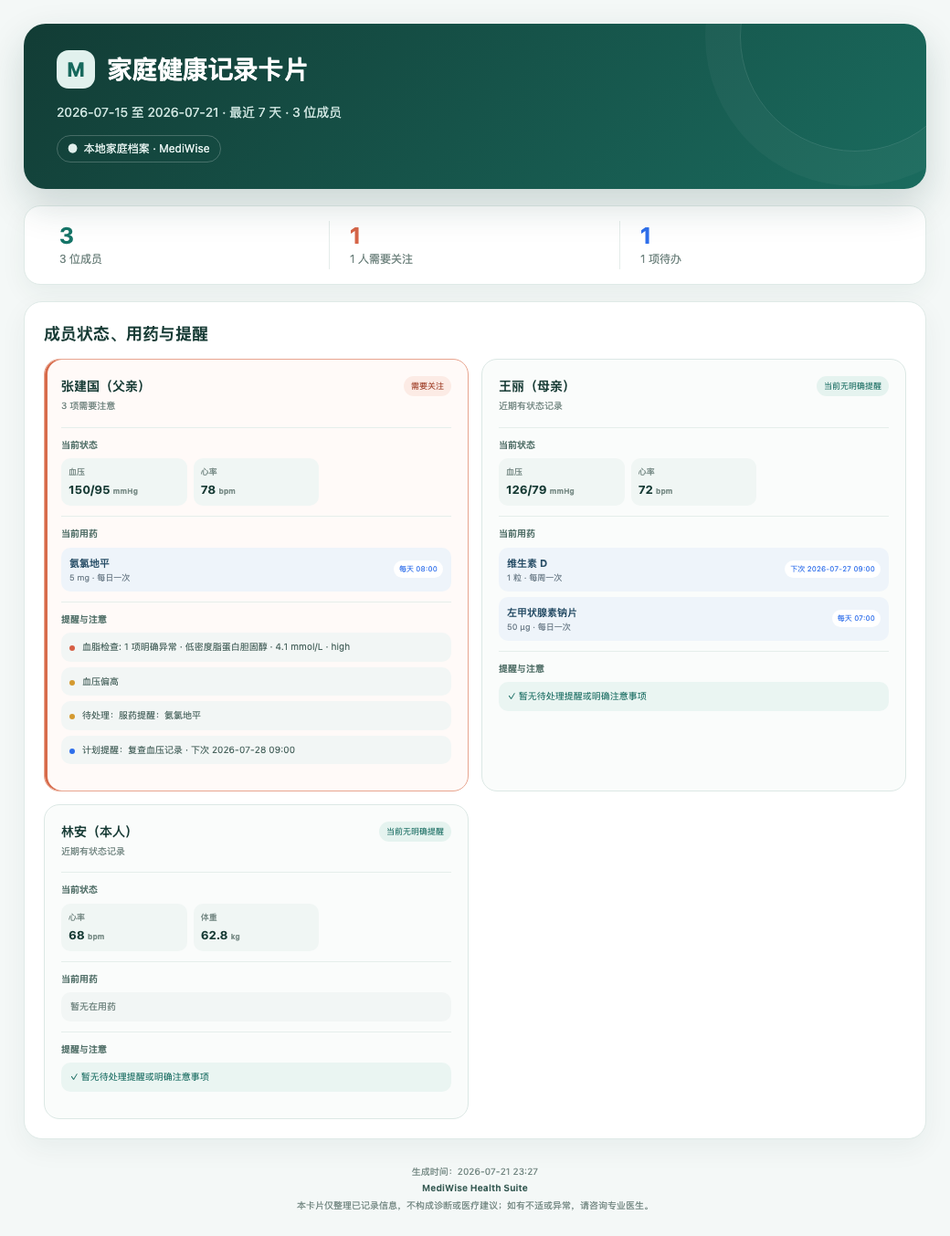
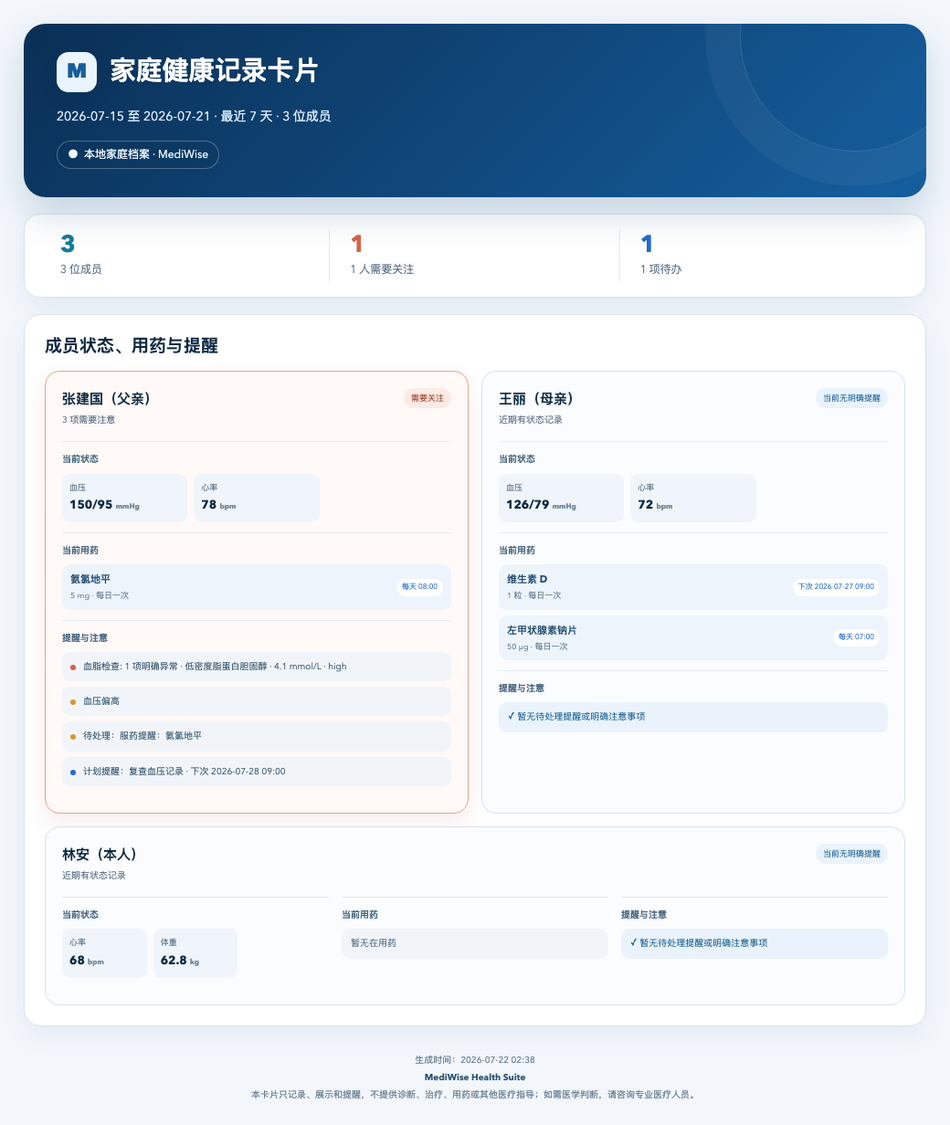
feat: refresh health cards with blue theme

diff --git a/mediwise-health-tracker/scripts/briefing_report.py b/mediwise-health-tracker/scripts/briefing_report.py
@@ -470,11 +470,11 @@ def _sparkline(metric_type: str, points: list[dict], locale: str) -> str:
         dots = "".join(f'<circle cx="{x:.1f}" cy="{y:.1f}" r="2.3" fill="{color}"/>' for x, y in coords)
         return f'<polyline points="{line}" fill="none" stroke="{color}" stroke-width="3" stroke-linecap="round" stroke-linejoin="round"/>{dots}'
     if metric_type == "blood_pressure":
-        content = path([p.get("systolic") for p in points], "#D76A4A") + path([p.get("diastolic") for p in points], "#2F6FEB")
+        content = path([p.get("systolic") for p in points], "#D66548") + path([p.get("diastolic") for p in points], "#246BCE")
     else:
-        content = path([_metric_number(p, metric_type) for p in points], "#1E7A6E")
+        content = path([_metric_number(p, metric_type) for p in points], "#246BCE")
     label = _escape(METRIC_NAMES[locale].get(metric_type, metric_type))
-    return f'<svg class="spark" viewBox="0 0 {width} {height}" role="img" aria-label="{label}"><line x1="{pad}" y1="{height-pad}" x2="{width-pad}" y2="{height-pad}" stroke="#DDE8E5"/>{content}</svg>'
+    return f'<svg class="spark" viewBox="0 0 {width} {height}" role="img" aria-label="{label}"><line x1="{pad}" y1="{height-pad}" x2="{width-pad}" y2="{height-pad}" stroke="#DCE6F0"/>{content}</svg>'
 
 
 def _tip_focus(tip: dict) -> str | None:
@@ -999,18 +999,19 @@ def _render_html(title: str, subtitle: str, privacy: str, summary: str, content:
     generated = c["generated"].format(time=datetime.now().strftime("%Y-%m-%d %H:%M"))
     return f'''<!DOCTYPE html><html lang="{c["lang"]}"><head><meta charset="UTF-8"><meta name="viewport" content="width=device-width,initial-scale=1"><title>{_escape(title)}</title>
 <style>
-*{{box-sizing:border-box}} body{{margin:0;background:#F4F8F7;color:#173B35;font:14px/1.55 -apple-system,BlinkMacSystemFont,"Segoe UI","PingFang SC","Microsoft YaHei",Arial,sans-serif;line-break:strict;overflow-wrap:break-word;font-synthesis:none}} .container{{max-width:1040px;margin:auto;padding:26px}}
-.header{{position:relative;overflow:hidden;border-radius:24px;padding:29px 36px;background:linear-gradient(135deg,#123C35,#1A6B5E);color:#fff;box-shadow:0 18px 42px rgba(18,60,53,.18)}} .header:after{{content:"";position:absolute;width:250px;height:250px;border:1px solid rgba(255,255,255,.12);border-radius:50%;right:-48px;top:-112px;box-shadow:0 0 0 38px rgba(255,255,255,.035)}}
-.brand{{display:flex;align-items:center;gap:13px}} .mark{{display:grid;place-items:center;width:42px;height:42px;border-radius:13px;background:#E1F1ED;color:#17695D;font-weight:800;font-size:22px}} h1{{font-size:28px;line-height:1.2;margin:0;letter-spacing:-.4px}} .subtitle{{margin-top:15px;color:#CCE3DE}} .privacy{{display:inline-block;margin-top:14px;padding:5px 11px;border:1px solid rgba(255,255,255,.22);border-radius:99px;color:#E1EFEC;font-size:12px}}
-.summary-strip{{display:grid;grid-template-columns:repeat(3,1fr);background:white;border:1px solid #DFEAE7;border-radius:18px;margin:18px 0;padding:16px;box-shadow:0 9px 28px rgba(18,60,53,.06)}} .summary-strip>div{{padding:2px 22px;border-right:1px solid #E4ECEA}} .summary-strip>div:last-child{{border:0}} .summary-strip b{{font-size:25px;display:block;line-height:1.1}} .summary-strip span{{font-size:12px;color:#718580}} .green{{color:#167568}} .blue{{color:#2F6FEB}} .coral{{color:#D66548}} .gold{{color:#B7791F}}
-section{{background:#fff;border:1px solid #DFEAE7;border-radius:20px;padding:21px;margin:14px 0;box-shadow:0 10px 30px rgba(18,60,53,.055)}} .section-featured{{border-color:#A9D0C7;box-shadow:0 12px 34px rgba(18,92,79,.09)}} .section-title{{display:flex;align-items:center;gap:10px;margin-bottom:13px}} .section-title>span{{font-size:10px;font-weight:800;color:#72A69C;border:1px solid #CDE1DC;border-radius:99px;padding:2px 7px}} h2{{font-size:18px;margin:0;text-wrap:balance}} h3{{margin:0;font-size:14px}} p{{text-wrap:pretty}} .muted{{color:#718580;font-size:11px}} .empty{{padding:20px;text-align:center;border:1px dashed #BFD2CD;border-radius:13px;background:#F8FBFA;color:#718580}} .empty.compact{{padding:14px 9px;margin-top:8px}}
-.metric-grid{{display:grid;grid-template-columns:repeat(4,1fr);gap:10px}} .metric-grid.focused{{grid-template-columns:repeat(5,1fr)}} .metric-card{{padding:13px;border-radius:14px;background:#F7FAF9;border:1px solid #DCE8E5;min-width:0}} .metric-card.featured{{grid-column:span 2;background:#F2F8F6;border-color:#BBD9D2}} .metric-card.featured .spark{{height:50px}} .metric-head,.meta{{display:flex;justify-content:space-between;gap:6px}} .metric-head b{{font-size:12px}} .metric-head span{{font-size:9px;background:#E8F0FA;color:#2F6FEB;border-radius:99px;padding:2px 6px;white-space:nowrap}} .metric-value{{font-size:24px;font-weight:760;margin-top:6px;font-variant-numeric:tabular-nums}} .metric-value small,.big small{{font-size:10px;color:#718580}} .spark{{display:block;width:100%;height:42px;margin:5px 0}} .meta{{font-size:8px;color:#82938F}} .metric-title{{margin-top:16px}}
-.wellness-grid{{display:grid;grid-template-columns:1.05fr 1fr 1fr;gap:10px}} .wellness-grid.focused{{grid-template-columns:repeat(4,minmax(0,1fr))}} .featured-panel{{grid-column:span 2}} .panel{{min-height:158px;border-radius:15px;padding:14px;border:1px solid #DCE8E5;background:#F9FBFB}} .intake{{background:#F5F8FC;border-color:#DCE6F3}} .activity{{background:#F3F9F7;border-color:#D6E9E4}} .sleep{{background:#FCF7F4;border-color:#F1E0D9}} .eyebrow{{font-size:11px;font-weight:750;color:#506D67}} .big{{font-size:24px;font-weight:780;margin-top:6px;font-variant-numeric:tabular-nums}} .macro,.sleep-row{{display:grid;grid-template-columns:repeat(2,1fr);gap:5px;margin-top:9px}} .macro span,.sleep-row span{{font-size:9px;color:#7A8D88}} .macro b,.sleep-row b{{display:block;font-size:11px;color:#284A44}} .step-box{{margin-top:9px;padding-top:8px;border-top:1px solid #D7E8E4;display:grid;grid-template-columns:1fr auto}} .step-box b{{font-size:16px;color:#176F63}} .step-box small{{grid-column:1/3;color:#82938F}} .top-gap{{margin-top:10px}} .scope-note{{margin:9px 2px 0;font-size:9px;color:#82938F}}
-.table-wrap{{overflow:hidden;border:1px solid #DFE8E6;border-radius:14px}} table{{width:100%;border-collapse:collapse;font-variant-numeric:tabular-nums}} th{{background:#EDF4F2;color:#31564F;font-size:11px;text-align:left}} th,td{{padding:9px 12px;border-bottom:1px solid #EDF2F1}} tr:last-child td{{border:0}} td{{font-size:11px}}
-.clear{{display:flex;align-items:center;gap:9px;padding:11px 14px;border-radius:13px;background:#E7F5F1;color:#16665B}} .clear i{{display:grid;place-items:center;width:23px;height:23px;border-radius:50%;background:#1B786B;color:white;font-style:normal}} .hero-clear{{margin:14px 0;background:white;border:1px solid #D7E8E3;box-shadow:0 9px 28px rgba(18,60,53,.05)}} .attention-section{{padding:14px 18px}} .attention-section.has-risk{{border-color:#E9B9AA;background:#FFFCFB}} .attention-section .compact-attention{{padding:0;border:0}} .attention-list{{display:grid;grid-template-columns:repeat(2,minmax(0,1fr));gap:7px;flex:1}} .attention-item{{display:flex;gap:9px;padding:8px 11px;border-radius:10px;background:#F4F8F7}} .attention-item span{{width:6px;height:6px;border-radius:50%;background:#2F6FEB;margin-top:7px;flex:none}} .attention-item.alert span{{background:#D65F45}} .attention-item.warning span{{background:#D49A30}} .attention-item p{{margin:0;font-size:12px}} .compact-attention{{display:flex;align-items:center;gap:14px;padding-bottom:13px;border-bottom:1px solid #E5EEEB}} .compact-attention>b{{font-size:12px;white-space:nowrap;color:#45645E}} .compact-attention>.clear{{flex:1;padding:8px 11px}} .compact-attention>.clear i{{width:20px;height:20px}}
-.family-grid{{display:grid;grid-template-columns:repeat(2,1fr);gap:14px}} .family-card{{padding:18px;border:1px solid #DCE8E5;border-radius:17px;background:#FAFCFB}} .family-card.featured-member{{border-color:#E8A58F;background:#FFFAF8;box-shadow:inset 3px 0 #D76A4A}} .family-card-head{{display:flex;justify-content:space-between;gap:10px;margin-bottom:12px}} .family-card-head p{{margin:3px 0;color:#718580;font-size:10px}} .status{{height:max-content;padding:4px 8px;border-radius:99px;background:#E5F3EF;color:#176B60;font-size:9px;white-space:nowrap}} .status.watch{{background:#FCEBE5;color:#A64C36}} .family-block{{padding:11px 0;border-top:1px solid #E5EEEB}} .family-block-title{{font-size:10px;font-weight:760;color:#527069;margin-bottom:7px}} .family-metrics{{display:grid;grid-template-columns:repeat(3,1fr);gap:7px}} .family-metrics span{{padding:8px;background:#F0F6F4;border-radius:10px;min-width:0}} .family-metrics small,.family-metrics b{{display:block}} .family-metrics small{{font-size:9px;color:#718580}} .family-metrics b{{font-size:13px;margin-top:2px;white-space:nowrap}} .family-metrics i{{font-size:8px;font-style:normal;color:#7B8E89}} .family-state-note,.family-empty{{padding:8px 10px;border-radius:10px;background:#F2F6F5;color:#718580;font-size:10px}} .family-empty.clear-state{{background:#EAF5F2;color:#176B60}} .family-list{{display:grid;gap:6px}} .family-list-item{{display:flex;align-items:center;gap:8px;padding:8px 9px;border-radius:10px;background:#F2F6F5;min-width:0}} .family-list-item.medication{{justify-content:space-between;background:#EEF4FA}} .family-list-item.medication div{{min-width:0}} .family-list-item.medication b,.family-list-item.medication small{{display:block}} .family-list-item.medication b{{font-size:11px;color:#274D66}} .family-list-item.medication small{{font-size:9px;color:#71818D;margin-top:1px}} .family-list-item.medication em{{font-size:8px;font-style:normal;color:#2F6FEB;background:#fff;padding:3px 6px;border-radius:99px;white-space:nowrap}} .family-list-item.attention{{align-items:flex-start}} .family-list-item.attention i{{width:6px;height:6px;border-radius:50%;background:#2F6FEB;margin-top:6px;flex:none}} .family-list-item.attention.warning i{{background:#D49A30}} .family-list-item.attention.alert i{{background:#D65F45}} .family-list-item.attention p{{margin:0;font-size:10px;color:#49645E}} .family-more{{font-size:9px;color:#718580;padding-left:3px}}
-.timeline{{padding-left:6px}} .timeline-item{{display:grid;grid-template-columns:78px 12px 1fr;gap:9px;min-height:55px}} .timeline-item time{{font-size:10px;color:#718580;padding-top:2px;font-variant-numeric:tabular-nums}} .timeline-item>span{{position:relative}} .timeline-item>span:before{{content:"";position:absolute;width:7px;height:7px;border-radius:50%;background:#D76A4A;top:5px;left:2px}} .timeline-item>span:after{{content:"";position:absolute;width:1px;background:#DDE8E5;top:15px;bottom:0;left:5px}} .timeline-item:last-child>span:after{{display:none}} .timeline-item b{{font-size:12px}} .timeline-item small{{margin-left:7px;padding:2px 6px;border-radius:99px;background:#F4E9E5;color:#9B5A47;font-size:8px}} .timeline-item p{{font-size:11px;color:#59726C;margin:1px 0}} .personal-timeline{{display:grid;grid-template-columns:repeat(2,minmax(0,1fr));column-gap:25px}} .personal-timeline .timeline-item{{grid-template-columns:72px 12px 1fr;min-height:52px}} .personal-timeline .metric-event>span:before{{background:#2F6FEB}} .personal-timeline .metric-event small{{background:#E8F0FA;color:#2F6FEB}} .personal-timeline .food-event>span:before{{background:#557FBA}} .personal-timeline .food-event small{{background:#EDF3FA;color:#446A9E}} .personal-timeline .activity-event>span:before{{background:#1E7A6E}} .personal-timeline .activity-event small{{background:#E4F2EE;color:#176B60}} .personal-timeline .sleep-event>span:before{{background:#C8775E}} .personal-timeline .sleep-event small{{background:#F7EAE5;color:#A45C47}}
-.footer{{text-align:center;color:#758984;font-size:10px;padding:14px 10px 6px}} .footer b{{display:block;color:#385C55;margin:3px}} @media(max-width:700px){{.container{{padding:12px}}.header{{padding:25px}}.metric-grid,.metric-grid.focused{{grid-template-columns:repeat(2,1fr)}}.wellness-grid,.wellness-grid.focused,.family-grid,.personal-timeline{{grid-template-columns:1fr}}.featured-panel{{grid-column:auto}}.attention-list{{grid-template-columns:1fr}}.compact-attention{{align-items:flex-start;flex-direction:column}}.summary-strip>div{{padding:2px 8px}}.family-metrics{{grid-template-columns:repeat(2,1fr)}}}} @media print{{body{{background:white}}.container{{max-width:none}}section,.header{{box-shadow:none;break-inside:avoid}}}}
+:root{{--page:#F3F7FC;--surface:#FFFFFF;--surface-muted:#F7FAFD;--ink:#15324B;--ink-strong:#0D2942;--muted:#526B82;--line:#D8E4F0;--line-strong:#BBD2E8;--primary:#246BCE;--primary-strong:#164F91;--primary-soft:#EAF3FD;--cyan:#167A9A;--cyan-soft:#EAF6FA;--coral:#D66548;--coral-soft:#FCF0EC;--gold:#B7791F}}
+*{{box-sizing:border-box}} body{{margin:0;background:var(--page);color:var(--ink);font:14.5px/1.62 "Avenir Next","Segoe UI Variable","Segoe UI","PingFang SC","Microsoft YaHei",sans-serif;line-break:strict;overflow-wrap:break-word;font-synthesis:none}} .container{{max-width:1040px;margin:auto;padding:26px}}
+.header{{position:relative;overflow:hidden;border-radius:24px;padding:31px 36px;background:linear-gradient(135deg,#0A2F55,#155E9E);color:#fff;box-shadow:0 18px 42px rgba(16,68,116,.20)}} .header:after{{content:"";position:absolute;width:250px;height:250px;border:1px solid rgba(255,255,255,.15);border-radius:50%;right:-48px;top:-112px;box-shadow:0 0 0 38px rgba(255,255,255,.045)}}
+.brand{{display:flex;align-items:center;gap:14px}} .mark{{display:grid;place-items:center;width:44px;height:44px;border-radius:13px;background:#EAF4FF;color:#175D9B;font-weight:800;font-size:22px;box-shadow:0 8px 18px rgba(4,37,68,.16)}} h1{{font-size:29px;line-height:1.22;margin:0;letter-spacing:-.25px;text-wrap:balance}} .subtitle{{margin-top:16px;color:#D9EAFE;font-size:14px}} .privacy{{display:inline-block;margin-top:14px;padding:5px 11px;border:1px solid rgba(255,255,255,.28);border-radius:99px;color:#EFF7FF;font-size:12px;background:rgba(4,35,63,.10)}}
+.summary-strip{{display:grid;grid-template-columns:repeat(3,1fr);background:var(--surface);border:1px solid var(--line);border-radius:18px;margin:18px 0;padding:17px;box-shadow:0 9px 28px rgba(21,63,104,.07)}} .summary-strip>div{{padding:2px 22px;border-right:1px solid #E2EAF2}} .summary-strip>div:last-child{{border:0}} .summary-strip b{{font-size:26px;display:block;line-height:1.1;font-variant-numeric:tabular-nums}} .summary-strip span{{font-size:12px;color:var(--muted)}} .green{{color:var(--cyan)}} .blue{{color:var(--primary)}} .coral{{color:var(--coral)}} .gold{{color:var(--gold)}}
+section{{background:var(--surface);border:1px solid var(--line);border-radius:19px;padding:22px;margin:14px 0;box-shadow:0 10px 30px rgba(21,63,104,.065)}} .section-featured{{border-color:#A8C9E8;box-shadow:0 12px 34px rgba(31,91,147,.11)}} .section-title{{display:flex;align-items:center;gap:10px;margin-bottom:14px}} .section-title>span{{font-size:10px;font-weight:800;color:#2F6EA5;border:1px solid #C5D9EC;background:#F2F7FC;border-radius:99px;padding:2px 7px}} h2{{font-size:19px;line-height:1.3;margin:0;color:var(--ink-strong);text-wrap:balance}} h3{{margin:0;font-size:15px;color:var(--ink-strong)}} p{{text-wrap:pretty}} .muted{{color:var(--muted);font-size:11px}} .empty{{padding:20px;text-align:center;border:1px dashed #B9CDE0;border-radius:12px;background:#F8FAFD;color:var(--muted)}} .empty.compact{{padding:14px 9px;margin-top:8px}}
+.metric-grid{{display:grid;grid-template-columns:repeat(4,1fr);gap:10px}} .metric-grid.focused{{grid-template-columns:repeat(5,1fr)}} .metric-card{{padding:14px;border-radius:13px;background:var(--surface-muted);border:1px solid #D9E4EF;min-width:0}} .metric-card.featured{{grid-column:span 2;background:#F1F7FD;border-color:#B8D0E7}} .metric-card.featured .spark{{height:50px}} .metric-head,.meta{{display:flex;justify-content:space-between;gap:6px}} .metric-head b{{font-size:12px;color:var(--ink-strong)}} .metric-head span{{font-size:9px;background:var(--primary-soft);color:var(--primary);border-radius:99px;padding:2px 6px;white-space:nowrap}} .metric-value{{font-size:25px;font-weight:760;margin-top:7px;color:var(--ink-strong);font-variant-numeric:tabular-nums}} .metric-value small,.big small{{font-size:10px;color:var(--muted)}} .spark{{display:block;width:100%;height:42px;margin:6px 0}} .meta{{font-size:9px;color:#587087}} .metric-title{{margin-top:16px}}
+.wellness-grid{{display:grid;grid-template-columns:1.05fr 1fr 1fr;gap:10px}} .wellness-grid.focused{{grid-template-columns:repeat(4,minmax(0,1fr))}} .featured-panel{{grid-column:span 2}} .panel{{min-height:160px;border-radius:14px;padding:15px;border:1px solid #D9E4EF;background:#F8FAFD}} .intake{{background:#F2F7FE;border-color:#D4E2F2}} .activity{{background:#F1F8FC;border-color:#D2E7F0}} .sleep{{background:#FCF6F3;border-color:#EFDCD3}} .eyebrow{{font-size:11px;font-weight:760;color:#496780}} .big{{font-size:25px;font-weight:780;margin-top:7px;font-variant-numeric:tabular-nums}} .macro,.sleep-row{{display:grid;grid-template-columns:repeat(2,1fr);gap:5px;margin-top:9px}} .macro span,.sleep-row span{{font-size:9px;color:#526B82}} .macro b,.sleep-row b{{display:block;font-size:11px;color:#24445F}} .step-box{{margin-top:9px;padding-top:8px;border-top:1px solid #D2E3EE;display:grid;grid-template-columns:1fr auto}} .step-box b{{font-size:16px;color:var(--cyan)}} .step-box small{{grid-column:1/3;color:#587087}} .top-gap{{margin-top:10px}} .scope-note{{margin:10px 2px 0;font-size:9px;color:#587087}}
+.table-wrap{{overflow:hidden;border:1px solid var(--line);border-radius:13px}} table{{width:100%;border-collapse:collapse;font-variant-numeric:tabular-nums}} th{{background:#EDF4FA;color:#274E70;font-size:11px;text-align:left}} th,td{{padding:10px 12px;border-bottom:1px solid #E8EEF4}} tr:last-child td{{border:0}} td{{font-size:11px}}
+.clear{{display:flex;align-items:center;gap:9px;padding:11px 14px;border-radius:12px;background:#EAF3FB;color:#195F93}} .clear i{{display:grid;place-items:center;width:23px;height:23px;border-radius:50%;background:#2C78B8;color:white;font-style:normal}} .hero-clear{{margin:14px 0;background:white;border:1px solid #D3E1EE;box-shadow:0 9px 28px rgba(21,63,104,.06)}} .attention-section{{padding:15px 18px}} .attention-section.has-risk{{border-color:#E9B9AA;background:#FFFCFB}} .attention-section .compact-attention{{padding:0;border:0}} .attention-list{{display:grid;grid-template-columns:repeat(2,minmax(0,1fr));gap:7px;flex:1}} .attention-item{{display:flex;gap:9px;padding:8px 11px;border-radius:10px;background:#F4F7FA}} .attention-item span{{width:6px;height:6px;border-radius:50%;background:var(--primary);margin-top:7px;flex:none}} .attention-item.alert span{{background:#D65F45}} .attention-item.warning span{{background:#D49A30}} .attention-item p{{margin:0;font-size:12px}} .compact-attention{{display:flex;align-items:center;gap:14px;padding-bottom:13px;border-bottom:1px solid #E4EBF2}} .compact-attention>b{{font-size:12px;white-space:nowrap;color:#385A76}} .compact-attention>.clear{{flex:1;padding:8px 11px}} .compact-attention>.clear i{{width:20px;height:20px}}
+.family-grid{{display:grid;grid-template-columns:repeat(2,1fr);gap:14px}} .family-card{{padding:18px;border:1px solid #D6E2ED;border-radius:16px;background:#FBFCFE}} .family-card.featured-member{{border-color:#E7A48E;background:#FFF9F7;box-shadow:0 10px 24px rgba(174,78,49,.10)}} .family-card-head{{display:flex;justify-content:space-between;gap:10px;margin-bottom:12px}} .family-card-head p{{margin:3px 0;color:var(--muted);font-size:10px}} .family-grid>.family-card:nth-child(odd):last-child{{grid-column:1/-1;display:grid;grid-template-columns:repeat(3,minmax(0,1fr));column-gap:14px}} .family-grid>.family-card:nth-child(odd):last-child .family-card-head{{grid-column:1/-1}} .status{{height:max-content;padding:4px 8px;border-radius:99px;background:#EAF3FB;color:#195F93;font-size:9px;white-space:nowrap}} .status.watch{{background:#FCEBE5;color:#A64C36}} .family-block{{padding:11px 0;border-top:1px solid #E3EBF2}} .family-block-title{{font-size:10px;font-weight:760;color:#46657E;margin-bottom:7px}} .family-metrics{{display:grid;grid-template-columns:repeat(3,1fr);gap:7px}} .family-metrics span{{padding:8px;background:#EFF5FA;border-radius:9px;min-width:0}} .family-metrics small,.family-metrics b{{display:block}} .family-metrics small{{font-size:9px;color:var(--muted)}} .family-metrics b{{font-size:13px;margin-top:2px;white-space:nowrap;color:var(--ink-strong)}} .family-metrics i{{font-size:8px;font-style:normal;color:#587087}} .family-state-note,.family-empty{{padding:8px 10px;border-radius:9px;background:#F1F5F9;color:var(--muted);font-size:10px}} .family-empty.clear-state{{background:#EAF3FB;color:#195F93}} .family-list{{display:grid;gap:6px}} .family-list-item{{display:flex;align-items:center;gap:8px;padding:8px 9px;border-radius:9px;background:#F1F5F9;min-width:0}} .family-list-item.medication{{justify-content:space-between;background:#EDF4FC}} .family-list-item.medication div{{min-width:0}} .family-list-item.medication b,.family-list-item.medication small{{display:block}} .family-list-item.medication b{{font-size:11px;color:#234D70}} .family-list-item.medication small{{font-size:9px;color:#526B82;margin-top:1px}} .family-list-item.medication em{{font-size:8px;font-style:normal;color:var(--primary);background:#fff;padding:3px 6px;border-radius:99px;white-space:nowrap}} .family-list-item.attention{{align-items:flex-start}} .family-list-item.attention i{{width:6px;height:6px;border-radius:50%;background:var(--primary);margin-top:6px;flex:none}} .family-list-item.attention.warning i{{background:#D49A30}} .family-list-item.attention.alert i{{background:#D65F45}} .family-list-item.attention p{{margin:0;font-size:10px;color:#405E77}} .family-more{{font-size:9px;color:var(--muted);padding-left:3px}}
+.timeline{{padding-left:6px}} .timeline-item{{display:grid;grid-template-columns:78px 12px 1fr;gap:9px;min-height:55px}} .timeline-item time{{font-size:10px;color:var(--muted);padding-top:2px;font-variant-numeric:tabular-nums}} .timeline-item>span{{position:relative}} .timeline-item>span:before{{content:"";position:absolute;width:7px;height:7px;border-radius:50%;background:var(--coral);top:5px;left:2px}} .timeline-item>span:after{{content:"";position:absolute;width:1px;background:#D9E4EF;top:15px;bottom:0;left:5px}} .timeline-item:last-child>span:after{{display:none}} .timeline-item b{{font-size:12px;color:var(--ink-strong)}} .timeline-item small{{margin-left:7px;padding:2px 6px;border-radius:99px;background:#F4E9E5;color:#9B5A47;font-size:8px}} .timeline-item p{{font-size:11px;color:#536D83;margin:1px 0}} .personal-timeline{{display:grid;grid-template-columns:repeat(2,minmax(0,1fr));column-gap:25px}} .personal-timeline .timeline-item{{grid-template-columns:72px 12px 1fr;min-height:52px}} .personal-timeline .metric-event>span:before{{background:var(--primary)}} .personal-timeline .metric-event small{{background:var(--primary-soft);color:var(--primary)}} .personal-timeline .food-event>span:before{{background:#557FBA}} .personal-timeline .food-event small{{background:#EDF3FA;color:#446A9E}} .personal-timeline .activity-event>span:before{{background:var(--cyan)}} .personal-timeline .activity-event small{{background:var(--cyan-soft);color:#126985}} .personal-timeline .sleep-event>span:before{{background:#C8775E}} .personal-timeline .sleep-event small{{background:#F7EAE5;color:#A45C47}}
+.footer{{text-align:center;color:#526B82;font-size:10px;padding:15px 10px 6px}} .footer b{{display:block;color:#2B5475;margin:3px}} @media(max-width:700px){{.container{{padding:12px}}.header{{padding:25px}}.metric-grid,.metric-grid.focused{{grid-template-columns:repeat(2,1fr)}}.wellness-grid,.wellness-grid.focused,.family-grid,.personal-timeline{{grid-template-columns:1fr}}.family-grid>.family-card:nth-child(odd):last-child{{grid-column:auto;display:block}}.featured-panel{{grid-column:auto}}.attention-list{{grid-template-columns:1fr}}.compact-attention{{align-items:flex-start;flex-direction:column}}.summary-strip>div{{padding:2px 8px}}.family-metrics{{grid-template-columns:repeat(2,1fr)}}}} @media print{{body{{background:white}}.container{{max-width:none}}section,.header{{box-shadow:none;break-inside:avoid}}}}
 </style></head><body><main class="container"><header class="header"><div class="brand"><div class="mark">M</div><h1>{_escape(title)}</h1></div><div class="subtitle">{_escape(subtitle)}</div><div class="privacy">●&nbsp; {_escape(privacy)} · MediWise</div></header>{summary}{content}<footer class="footer"><span>{_escape(generated)}</span><b>MediWise Health Suite</b><span>{_escape(c["disclaimer"])}</span></footer></main></body></html>'''
 
 

diff --git a/mediwise-health-tracker/scripts/test_briefing_report.py b/mediwise-health-tracker/scripts/test_briefing_report.py
@@ -103,5 +103,31 @@ class FamilyHealthCardTest(unittest.TestCase):
         self.assertIn("当前无明确提醒", html)
 
 
+class HealthCardThemeTest(unittest.TestCase):
+    def test_health_card_uses_blue_visual_system(self):
+        html = briefing_report._render_html(
+            "健康记录卡片", "最近 7 天", "个人本地档案", "", "", "zh-CN"
+        )
+
+        self.assertIn("--page:#F3F7FC", html)
+        self.assertIn("--primary:#246BCE", html)
+        self.assertIn("linear-gradient(135deg,#0A2F55,#155E9E)", html)
+        self.assertIn(".family-grid>.family-card:nth-child(odd):last-child", html)
+        self.assertNotIn("linear-gradient(135deg,#123C35,#1A6B5E)", html)
+
+    def test_metric_sparklines_use_blue_as_the_default(self):
+        html = briefing_report._sparkline(
+            "heart_rate",
+            [
+                {"value": 70, "date": "2026-07-20"},
+                {"value": 72, "date": "2026-07-21"},
+            ],
+            "zh-CN",
+        )
+
+        self.assertIn("#246BCE", html)
+        self.assertNotIn("#1E7A6E", html)
+
+
 if __name__ == "__main__":
     unittest.main()

diff --git a/mediwise-health-tracker/scripts/html_screenshot.py b/mediwise-health-tracker/scripts/html_screenshot.py
@@ -130,11 +130,11 @@ def _do_screenshot(render_path: str, output_path: str, width: int) -> dict:
 
         # Find the bottom boundary of actual content.
         # Scan from the bottom up, looking for rows that aren't the
-        # background color (the page bg is #F4F8F7 ≈ rgb(244,248,247)).
+        # background color (the page bg is #F3F7FC ≈ rgb(243,247,252)).
         pixels = img.load()
         w, h = img.size
         bg_threshold = 10  # tolerance for "close to background color"
-        bg_r, bg_g, bg_b = 244, 248, 247
+        bg_r, bg_g, bg_b = 243, 247, 252
 
         bottom = h
         for y in range(h - 1, 0, -1):

diff --git a/CHANGELOG.md b/CHANGELOG.md
@@ -8,6 +8,7 @@ and this project adheres to [Semantic Versioning](https://semver.org/spec/v2.0.0
 ## [Unreleased]
 
 ### Changed
+- Health Record Cards now use a clearer medical-blue visual system with improved contrast, blue metric charts, and a compact full-width layout for the final member in odd-sized family cards.
 - Clarified that MediWise works with Hermes, OpenClaw, Claude Code, Codex, WorkBuddy, and other Skills-compatible agents; OpenClaw-specific workspace and channel instructions remain documented as an adapter path rather than a product requirement.
 - Family health record cards now organize each member by current status, active medications and schedules, reminders, and explicit attention items. The family timeline has been removed.
 - Image and PDF intake now uses the current Agent's attachment-reading ability first. OCR and standalone vision services are optional fallbacks and are no longer required for installation.
